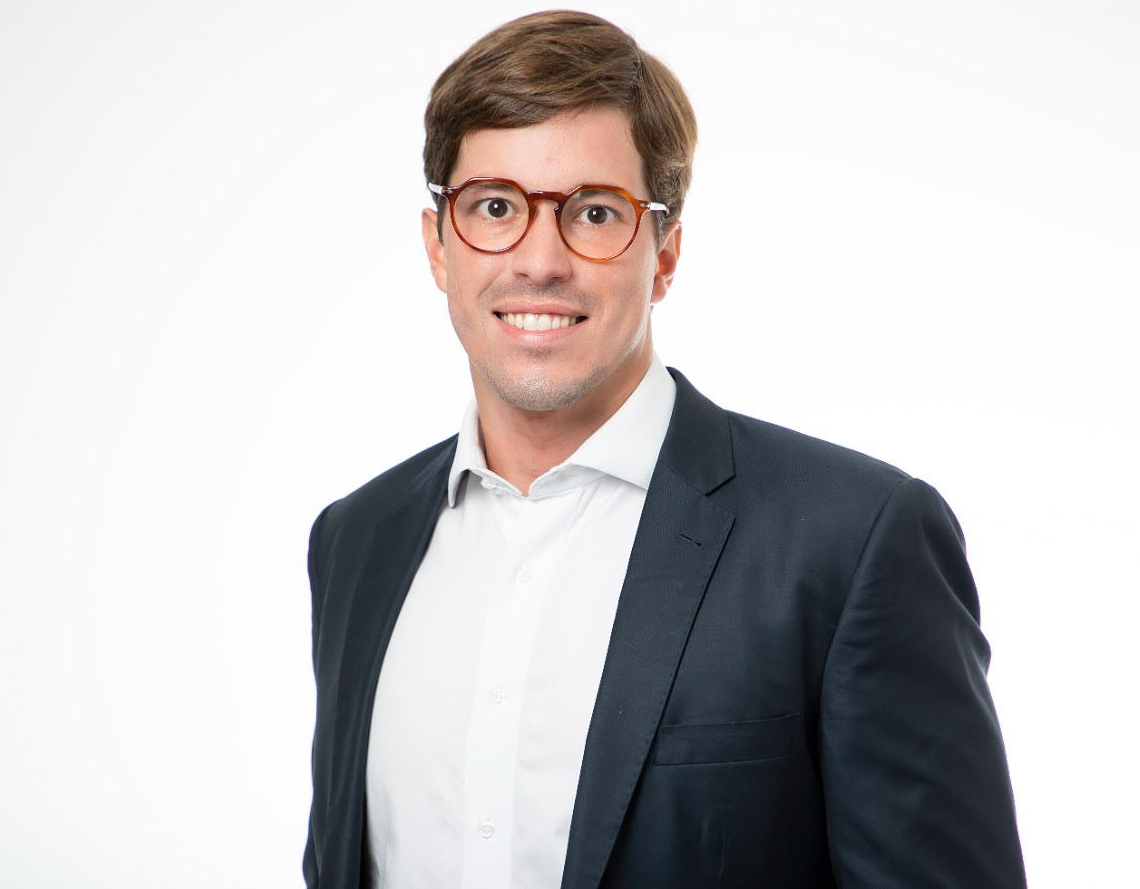
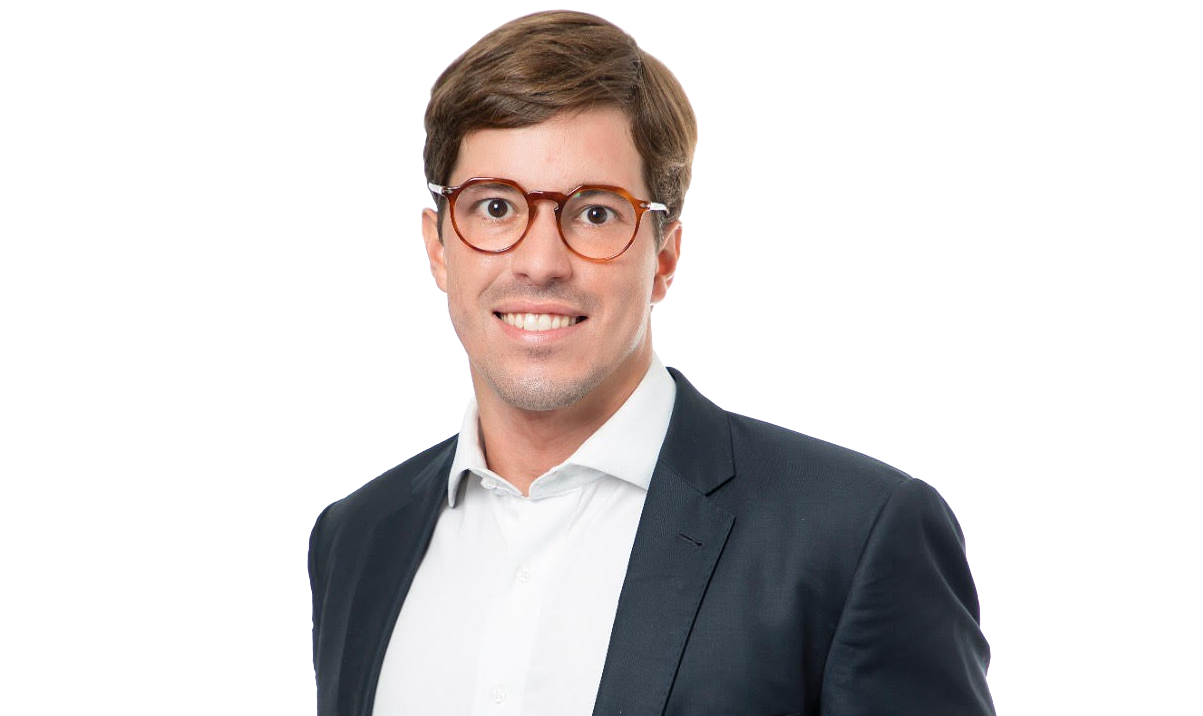
versao4

Changed region(s): [[0.2456, 0.0, 0.9211, 1.0], [0.4605, 0.9525, 0.4912, 1.0]]

diff --git a/css/stylemobile.css b/css/stylemobile.css
@@ -13,15 +13,7 @@
         height: 100%;
         background-image: linear-gradient( to bottom,#0F3B50, #0E3E56, #0B4561, #084D6E, #105576, #175C7D );
     }
-    #logo{
-    width: 89px;
-    height: 92px;
-    flex-shrink: 0;
-    position: relative;
-    right: 1ch;
-    top: 1ch;
-    
-    }
+ 
     #Titlevic,#Titlelin,.tagname,.tagline{
     color: #FFF;
     text-align: center;
@@ -68,6 +60,7 @@
       }
     
     .tagname{
+        text-decoration: none;
         position: relative;
         height: 5pc;
         margin-bottom: 2pc;
@@ -75,6 +68,7 @@
         border-bottom: solid;
     }
     .nameh {
+        text-decoration: none;
         position: relative;
         top: 64%;
     }
@@ -95,12 +89,12 @@
 h1{
     margin: 0px;
     margin-top: 5%;
-    width: 53%;
-
+    width: 67%;
     font-size: 51px;
     position: relative;
-    left: 27%;
+    left: 18%;
     text-align: center;
+    
     }
 
     .tagname:hover {

diff --git a/css/style.css b/css/style.css
@@ -1,4 +1,19 @@
+a:-webkit-any-link{
+    text-decoration: none;
+}
+#logo {
+ 
+    width: 133px;
+    flex-shrink: 0;
+    position: relative;
+    right: 1ch;
+    top: 1ch;
+    
+    }
 @media (min-width: 600px)  { 
+    #logo {
+        display: none;
+    }
 h3{
     text-transform: uppercase;
 }
@@ -10,15 +25,7 @@ h3{
     height: 100%;
     background-image: linear-gradient( to bottom,#0F3B50, #0E3E56, #0B4561, #084D6E, #105576, #175C7D );
 }
-#logo{
-width: 89px;
-height: 92px;
-flex-shrink: 0;
-position: relative;
-right: 1ch;
-top: 1ch;
 
-}
 #Titlevic,#Titlelin,.tagname,.tagline{
 color: #FFF;
 text-align: center;
@@ -64,6 +71,7 @@ line-height: normal;
   }
 
 .tagname{
+    text-decoration: none;
     position: relative;
     height: 5pc;
     margin-bottom: 2pc;
@@ -73,6 +81,7 @@ line-height: normal;
     border-bottom: solid;
 }
 .nameh {
+    text-decoration: none;
     position: relative;
     top: 53%;
 }

diff --git a/bio.html b/bio.html
@@ -70,7 +70,7 @@
 
             <div id="page">
                 <div class="titulo"><h1 class="tbio">BIO</h1></div>
-                <div class="box boximgmobile"><img id="victorperfil"src="img/victorperfil1.png" alt="victorperfil"></div>
+                <div class="box boximgmobile"><img id="victorperfil"src="img/victorperfil.png" alt="victorperfil"></div>
             
             <div class="boxclean">
                 <div class="box">
@@ -89,7 +89,7 @@
                        
                     <br>
                 </div>
-                <div class="box boximg"><img id="victorperfil"src="img/victorperfil1.png" alt="victorperfil"></div>
+                <div class="box boximg"><img id="victorperfil"src="img/victorperfil.png" alt="victorperfil"></div>
             </div>
             <div class="boxclean">
                 <div class="box idiomas">

diff --git a/css/style2.css b/css/style2.css
@@ -30,8 +30,8 @@ body{
 }
 #logo{
     margin: auto;
-    width: 44px;
-    height: 43px;
+    width: 60px;
+ 
     flex-shrink: 0;
     position: relative;
     right: 10px;
@@ -40,7 +40,7 @@ body{
 #victorperfil{
     margin: auto;
     width: 100%;
-    height: 100%;
+   
     flex-shrink: 0;
     position: relative;
   
@@ -137,11 +137,11 @@ body{
     line-height: normal;
 }
 .boximg {
-    height: auto;
     position: absolute;
     top: 5%;
     right: 3%;
-    width: 39%;
+    width: 494px;
+    height: 190px;
 }
 .premiacoes{
     width: 80%;

diff --git a/css/stylemobile2.css b/css/stylemobile2.css
@@ -1,5 +1,18 @@
 
 @media (max-width: 600px) {
+    #logo{
+        margin: auto;
+    width: 53px;
+    flex-shrink: 0;
+    position: relative;
+    right: 5%;
+        }
+    .titlelogo {
+        height: 100%;
+        position: relative;
+        top: 3%;
+        margin: auto;
+    }
     h3{
         text-transform: uppercase;
     }
@@ -68,8 +81,8 @@
         position: relative;
         top: 5%;
         left: 1%;
-        width: 50%;
-    
+        width: 320px;
+       
    }
    .box{
     width: 90%;
